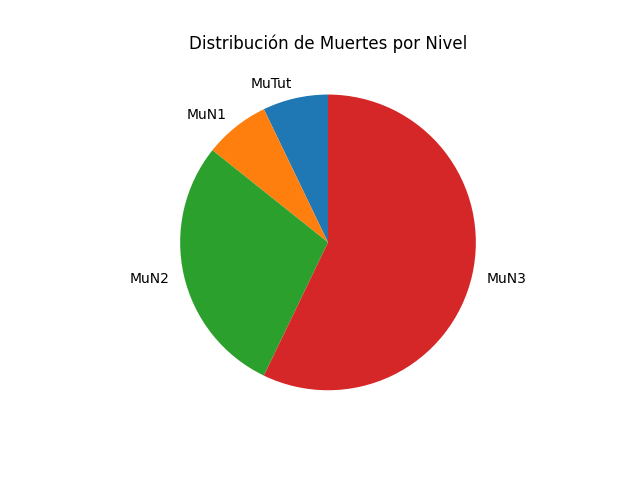
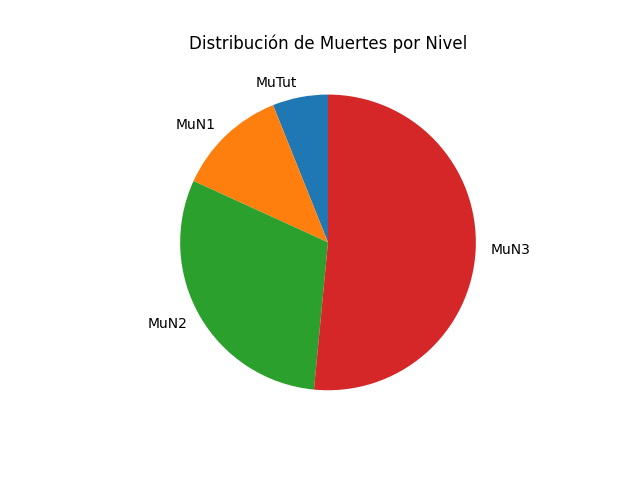
areglado los pngs

diff --git a/Analisis/HeatMapsYMetricas/Analisis.py b/Analisis/HeatMapsYMetricas/Analisis.py
@@ -101,18 +101,18 @@ ar = [sum(singleDf['MuTut']), sum(singleDf['MuN1']), sum(singleDf['MuN2']), sum(
 #auxdf.loc[0] = ar
 #auxdf
 #max = auxdf.plot(y=['MuTut','MuN1','MuN2','MuN3'], kind='bar')
-if(np.count_nonzero(ar)!=0):
-      plt.pie(ar, labels = mlabels, startangle = 90)
-      plt.title("Distribución de Muertes por Nivel")
-      plt.savefig('./Metricas/Metrica1.png')
+
+plt.pie(ar, labels = mlabels, startangle = 90)
+plt.title("Distribución de Muertes por Nivel")
+plt.savefig('./Metricas/Metrica1.png')
 
 #Metrica 3
 mlabels = ['MuSpike', 'MuE1', 'MuE2', 'MuE3', 'MuFi', 'MuIc']
 ar = [sum(singleDf['MuSpike']), sum(singleDf['MuE1']), sum(singleDf['MuE2']), sum(singleDf['MuE3']), sum(singleDf['MuFi']), sum(singleDf['MuIc'])]
-if(np.count_nonzero(ar)!=0):
-      plt.pie(ar, labels = mlabels, startangle = 90)
-      plt.title("Distribución de Muertes por Causas")
-      plt.savefig('./Metricas/Metrica3.png')
+plt.clf()
+plt.pie(ar, labels = mlabels, startangle = 90)
+plt.title("Distribución de Muertes por Causas")
+plt.savefig('./Metricas/Metrica3.png')
 
 #Metrica 4
 mlabels = ['TimTut', 'TimN1', 'TimN2', 'TimN3']
@@ -129,10 +129,10 @@ plt.savefig('./Metricas/Metrica4.png')
 mlabels = ['AciertosDisparos', 'FallosDisparo', 'AciertosMelee', 'FallosMelee']
 ar = [sum(singleDf['DisAc']), sum(singleDf['Dis']) - sum(singleDf['DisAc']), 
       sum(singleDf['MelAc']), sum(singleDf['Mel']) - sum(singleDf['MelAc'])]
-if(np.count_nonzero(ar)!=0):
-      plt.pie(ar, labels = mlabels, startangle = 90)
-      plt.title("Tasa de Aciertos y fallos de los distintos ataques del jugador")
-      plt.savefig('./Metricas/Metrica5y6.png')
+plt.clf
+plt.pie(ar, labels = mlabels, startangle = 90)
+plt.title("Tasa de Aciertos y fallos de los distintos ataques del jugador")
+plt.savefig('./Metricas/Metrica5y6.png')
 
 #Metrica 7
 mlabels = ['DamTut','DamN1','DamN2','DamN3']
